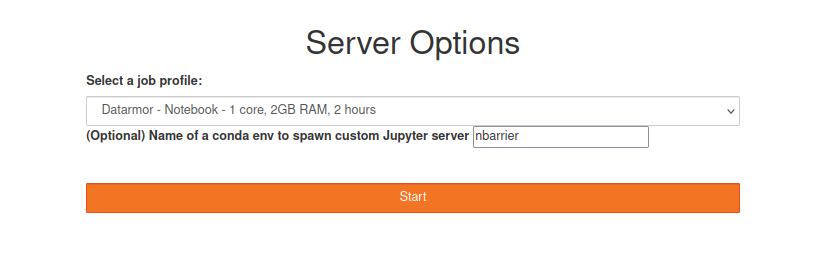
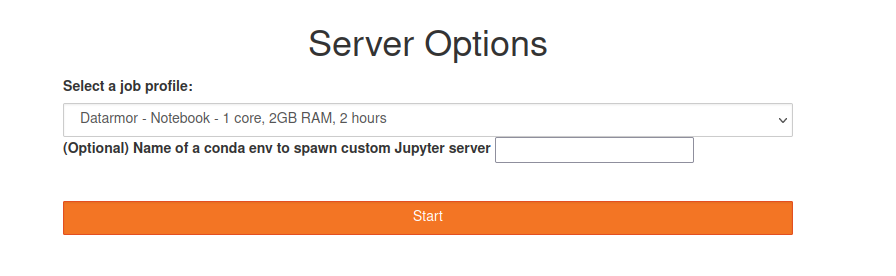
update readme

diff --git a/README.md b/README.md
@@ -485,58 +485,35 @@ In order to process data interactively, you can use Jupyter/Jupylab. To do so, c
 
 # Using Jupyter
 
-Now, select the resources that you want (core + memory) and eventually specify a Conda environment.
+Now, select the resources that you want (core + memory)
 
 <div align="center">
     <img height=400 src="figs/jupy2.png">
 </div>
 
----
-
-# Using Jupyter
-
-To use Jupyter with one of your own conda environment, you will need to install the following Conda packages
-
-```
-conda install jupyter-server-proxy \
-              jupyter_client \ 
-              jupyter_core \ 
-              jupyter_server \ 
-              jupyter_telemetry \ 
-              jupyterhub \
-              jupyterhub-base \ 
-              jupyterlab \ 
-              jupyterlab_pygments \ 
-              jupyterlab_server
-```
-
-> I also suggest the install of `jupytext` to automatically export Notebooks  into script files
+> **Warning: do not specify an optional environment**
 
 ---
 
+
 # Using Jupyter
 
-To use Jupyter with R scripts, you will need to install:
+To use Jupyter with R or Matlab scripts, you will need to install:
 
 ```
-conda install r-irkernel
+conda install r-irkernel  # for R
+conda install matlab_kernel  # for matlab
 ```
 
-To use Jupyter with Octave:
-
-```
-conda install octave_kernel
-```
-
-To use Jupyter with Matlab:
-
-```
-conda install matlab_kernel
-```
-
-To use Jupyter with Julia, run Julia and type:
+To use Jupyter with Julia, run Julia (installed with `conda`) and type:
 
 ```
 using Pkg
 Pkg.add("IJulia")
+```
+
+I also suggest the install of `jupytext` to automatically export Notebooks  into script files:
+
+```
+conda install jupytext
 ```
